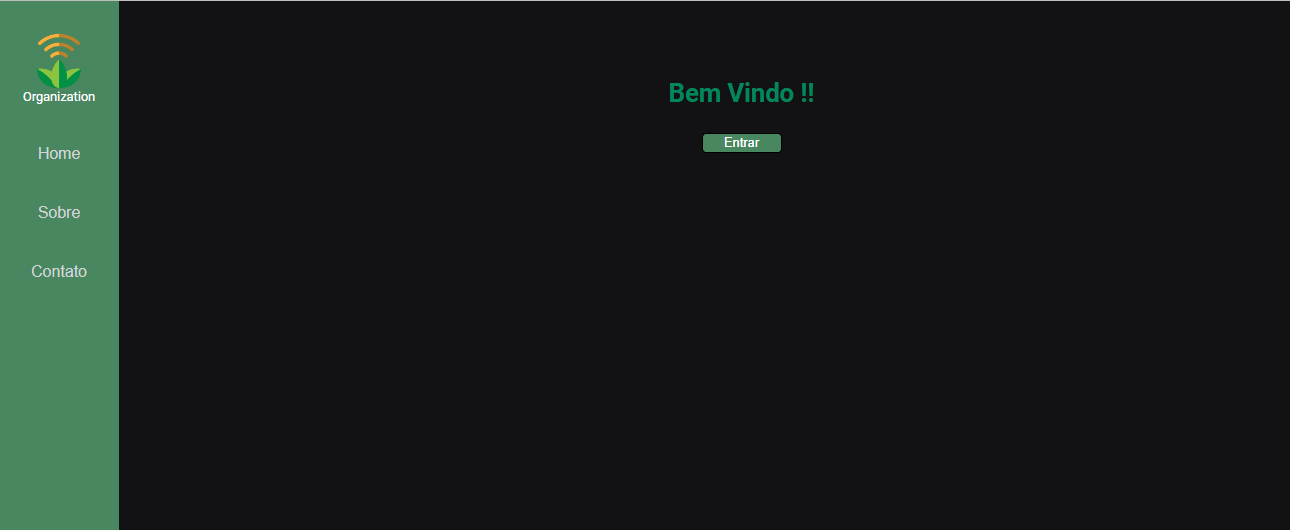
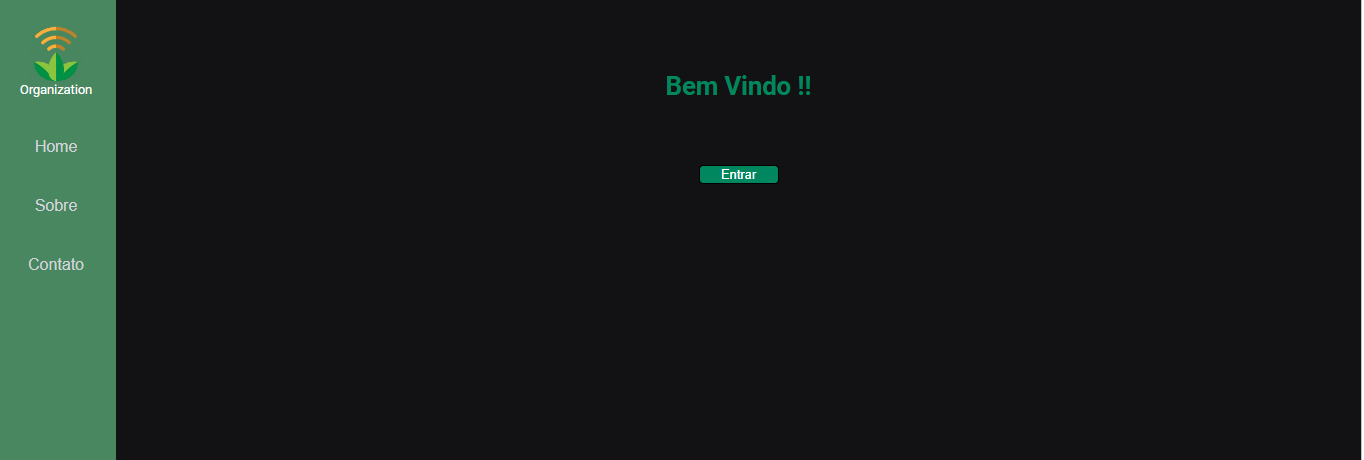
commit

diff --git a/reactapp/src/components/Sidebar/index.jsx b/reactapp/src/components/Sidebar/index.jsx
@@ -10,11 +10,11 @@ export function Sidebar() {
           <img src="https://avatars.githubusercontent.com/u/112397871?s=200&v=4" />
           <span>Organization</span>
         </div>
-        
+        <div class="btn-sidebar">
           <ButtonSidebar estado="Home" />
           <ButtonSidebar estado="Sobre" />
-          <ButtonSidebar estado="Contato" />                   
-        
+          <ButtonSidebar estado="Contato" />  
+        </div>
       </aside>
     </div>
   )

diff --git a/reactapp/src/components/Sidebar/styles.css b/reactapp/src/components/Sidebar/styles.css
@@ -4,7 +4,8 @@
 }
 
 aside {
-  background-color: var(--base-color-alt);  
+  background-color: var(--base-color-alt); 
+  border: 1px solid rede; 
 }
 
 .logo {
@@ -18,6 +19,12 @@ aside {
   height: 70px;
   margin: 0 40px;  
   margin-top: 40px;
+}
+
+.btn-sidebar {
+  display: flex;  
+  flex-direction: column;
+  align-items: center;
 }
 
 

diff --git a/reactapp/src/components/ButtonSidebar/styles.css b/reactapp/src/components/ButtonSidebar/styles.css
@@ -1,10 +1,7 @@
 .btn {
-  display: flex;  
-  align-items: center;
-  justify-content: center;
-  margin-top: 50px;  
-  font-size: 20px;
   border: none;
+  margin-top: 50px;  
+  font-size: 20px;  
   background-color: #48875F;
   color:  #D4D4D8;  
 }

diff --git a/reactapp/src/pages/Off/styles.css b/reactapp/src/pages/Off/styles.css
@@ -12,6 +12,6 @@
 
 
 .waterPump img {
-  margin-top: 3rem;
+  margin-top: 2rem;
  }
 
